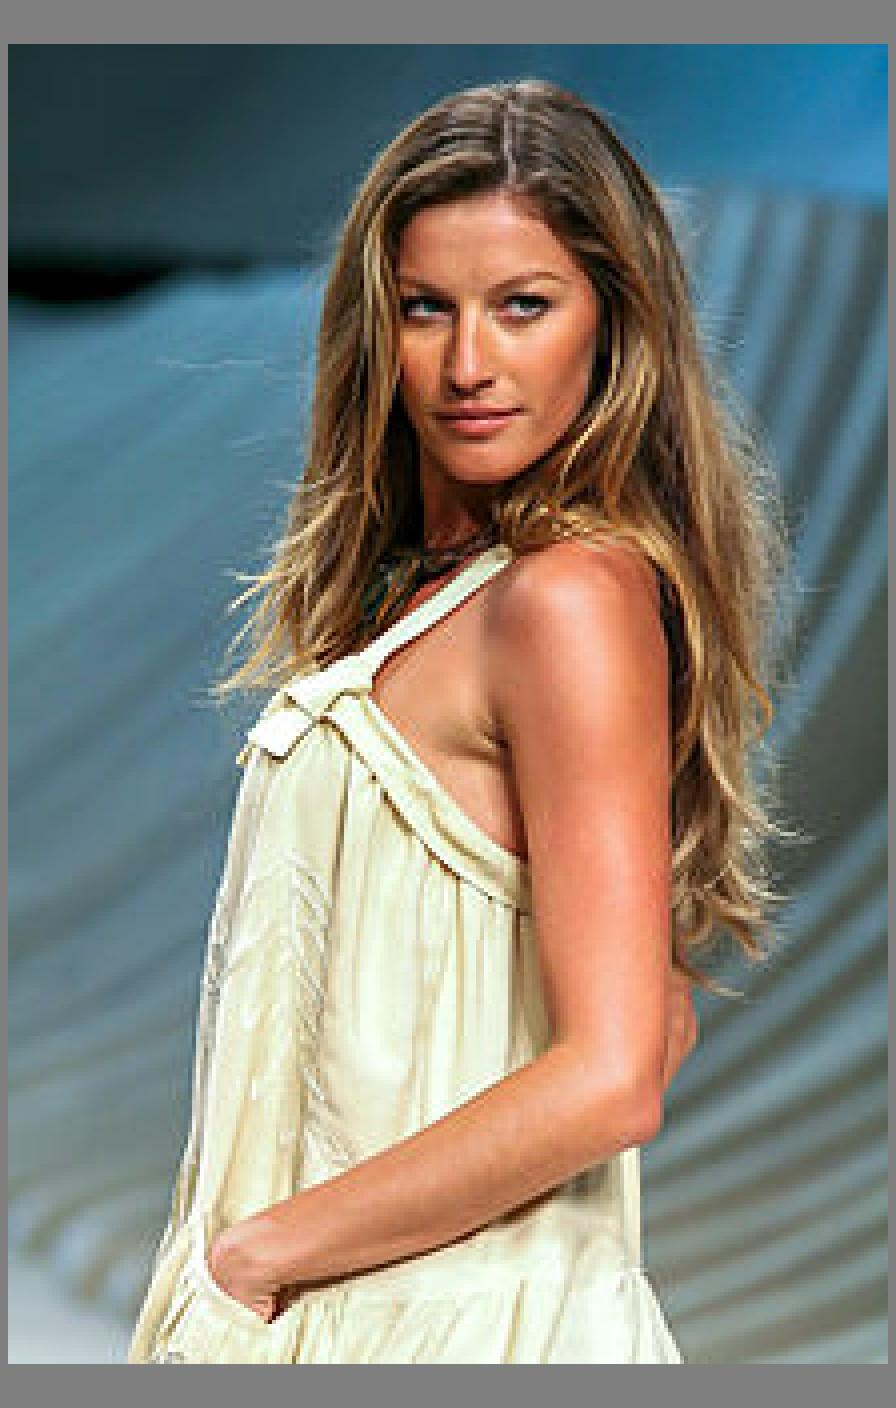
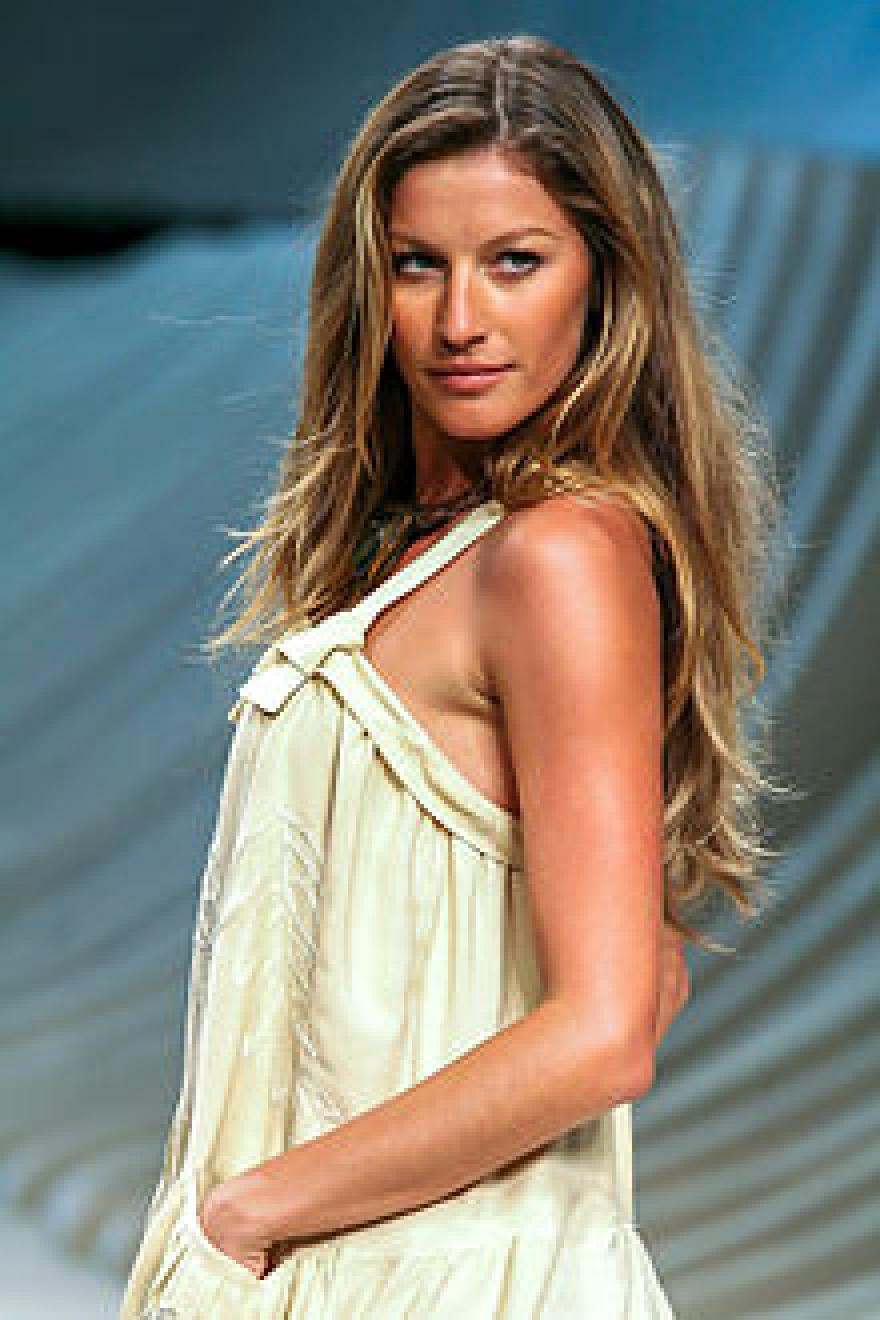
Removed saving grey border in output and upsampled inputs

diff --git a/model.py b/model.py
@@ -180,7 +180,7 @@ class DCGAN(object):
             return False
 
     def test(self,z, config):
-        print('yolo')
+        print('Testing 32x32 sized image')
         batch = [get_image(z, self.image_size, is_crop=self.is_crop)]*64
         batch_small = np.array([doresize(xx, [self.input_size,]*2) for xx in batch]).astype(np.float32)
         output, upsampled_inputs = self.sess.run([self.generated_output, self.up_inputs], feed_dict={self.inputs: batch_small})
@@ -191,33 +191,40 @@ class DCGAN(object):
         save_images([output[0]], [1, 1], os.path.join(config.sample_dir, 'test_generated_output.jpg'))
     
     def variable_size_test(self,z,config):
-        print('yolo')
+        print('Running Variable Sized Testing')
         image=get_image(z, self.image_size, is_crop=self.is_crop)
         
-        gridded,nrows,ncols=make_grid(image)
-        print('nrows, ncols: ',nrows, ncols)
-        output_list=list()
-        upsampled_inputs_list=list()
+        gridded, nrows, ncols, pad_rows, pad_cols=make_grid(image)    # This line breaks the image into subsections of 32x32, appending rows and columns wherever necessary. The list containing the sub images is gridded
+        print('Number of rows, columns in the image grid: ({}, {})'.format(nrows, ncols))
+        output_list=list()  #output_list is a list containing the partial outputs, i.e., the output of passing each element of the image grid through the network
+        if config.debug:
+            upsampled_inputs_list=list()
+
         for i in range(0,nrows*ncols):
             batch=np.array([gridded[i]]*64).astype(np.float32)
             batch_small = np.array([doresize(xx, [self.input_size,]*2) for xx in batch]).astype(np.float32)
             output, upsampled_inputs = self.sess.run([self.generated_output, self.up_inputs], feed_dict={self.inputs: batch_small})
             output_list.append(output[0])
-            upsampled_inputs_list.append(upsampled_inputs[0])
-            print('Done','Iteration number: ',i)
-            save_images([batch[0]], [1, 1], os.path.join(config.sample_dir, 'test_input_{:}.jpg'.format(i)))
-            save_images([upsampled_inputs[0]], [1, 1], os.path.join(config.sample_dir, 'test_input_upsampled_{:}.jpg'.format(i)))
             save_images([output[0]], [1, 1], os.path.join(config.sample_dir, 'test_generated_output_{:}.jpg'.format(i)))
-        #output_list=np.array(output_list).astype(np.float32)
-        joined_outputs=join_grid(output_list,nrows,ncols)
-        #joined_outputs=filters.gaussian_filter(joined_outputs,sigma=(1,1,0))
+            print('Processed 32x32 sub image number: ',i)
+            
+            if config.debug:
+                save_images([batch[0]], [1, 1], os.path.join(config.sample_dir, 'test_input_{:}.jpg'.format(i)))
+                upsampled_inputs_list.append(upsampled_inputs[0]) # Uncomment this line if you want to save the upsampled inputs too
+                save_images([upsampled_inputs[0]], [1, 1], os.path.join(config.sample_dir, 'test_input_upsampled_{:}.jpg'.format(i)))
 
-        joined_upsampled_inputs=join_grid(upsampled_inputs_list,nrows,ncols)
-        save_images([joined_outputs], [1, 1], os.path.join(config.sample_dir, 'joined_outputs.jpg'))
-        save_images([joined_upsampled_inputs], [1, 1], os.path.join(config.sample_dir, 'joined_upsampled_inputs.jpg'))
+        joined_outputs=join_grid(output_list, nrows, ncols, pad_rows, pad_cols)
+        joined_outputs=filters.gaussian_filter(joined_outputs,sigma=(1,1,0))
         
-        joined_output_resize=imresize(joined_outputs,(128,128,3))
-        joined_upsampled_inputs_resize=imresize(joined_upsampled_inputs,(128,128,3))
-        
+
+
+
+        save_images([joined_outputs], [1, 1], os.path.join(config.sample_dir, 'joined_outputs_full_resolution.jpg'))
+        joined_output_resize=imresize(joined_outputs,image.shape)
         save_images([joined_output_resize], [1, 1], os.path.join(config.sample_dir, 'joined_output_resized.jpg'))
-        save_images([joined_upsampled_inputs_resize], [1, 1], os.path.join(config.sample_dir, 'joined_upsampled_inputs_resized.jpg'))
+
+        if config.debug:
+            joined_upsampled_inputs=join_grid(upsampled_inputs_list,nrows,ncols, pad_rows, pad_cols)
+            save_images([joined_upsampled_inputs], [1, 1], os.path.join(config.sample_dir, 'joined_upsampled_inputs.jpg'))
+            joined_upsampled_inputs_resize=imresize(joined_upsampled_inputs,image.shape)
+            save_images([joined_upsampled_inputs_resize], [1, 1], os.path.join(config.sample_dir, 'joined_upsampled_inputs_resized.jpg'))

diff --git a/utils.py b/utils.py
@@ -90,7 +90,7 @@ def make_grid(img):
     #Breaking into 32*32 images.
     grids=list()
     h,w = img.shape[:2]
-    print('Image shape: ',h,w)
+    print('Original Image shape: ',h,w,'. Breaking it into 32x32 images and storing the list')
     #nrows = h//32
     #ncols = w//32
 
@@ -109,17 +109,19 @@ def make_grid(img):
         for j in range(0,ncols):
             grids.append(neo_image[32*i:32*(i+1),32*j:32*(j+1),:])
     
-    print('Shape of single grid: ',grids[0].shape)
-    return grids,nrows,ncols
+    print('Shape of an element image in the list: ',grids[0].shape)
+    return grids, nrows, ncols, padh, padw
 
-def join_grid(output_list,nrows,ncols):
+def join_grid(output_list, nrows, ncols, pad_rows, pad_cols):
     # h,w=output_list[0].shape[:2]
-    large_ass_output=np.zeros((128*nrows,128*ncols,3))
+    joined_output=np.zeros((128*nrows,128*ncols,3))
     for i in range(0,nrows):
         for j in range(0,ncols):
-            large_ass_output[128*i:128*(i+1),128*j:128*(j+1),:]=output_list[i*ncols+j]
+            joined_output[128*i:128*(i+1),128*j:128*(j+1),:]=output_list[i*ncols+j]
 
-    return large_ass_output
+    joined_output = joined_output[2*pad_rows:-2*pad_rows, 2*pad_cols:-2*pad_cols]
+
+    return joined_output
 
 def doresize(x, shape):
     x = np.copy((x+1.)*127.5).astype("uint8")

diff --git a/main.py b/main.py
@@ -20,6 +20,7 @@ flags.DEFINE_string("log_dir", "logs", "Directory name to save the training logs
 flags.DEFINE_string("test_image", "test.jpg", "Location to image for testing [test.jpg]")
 flags.DEFINE_boolean("is_train", False, "True for training, False for testing [False]")
 flags.DEFINE_boolean("is_crop", False, "True for training, False for testing [False]")
+flags.DEFINE_boolean("debug", False, "Enable if you would like to see all progress of all intermediate steps")
 FLAGS = flags.FLAGS
 
 def main(_):

diff --git a/README.md b/README.md
@@ -37,8 +37,8 @@ Super resolution of an image using Efficient subpixel Phase Shift CNNs.
 			<td>Input</td>
 		</tr>
 		<tr>
-			<td><img src="results/joined_outputs.jpg" alt="Output" style="width: 400px;"/></td>
 			<td><img src="results/joined_upsampled_inputs.jpg" alt="Input" style="width: 400px;"/></td>
+			<td><img src="results/joined_outputs_full_resolution.jpg" alt="Output" style="width: 400px;"/></td>
 		</tr>
 	</tbody>
 </table>
@@ -49,7 +49,7 @@ Super resolution of an image using Efficient subpixel Phase Shift CNNs.
 * Python 3.5+
 * Scipy, Numpy
 
-## Execution
+## Usage
 1. Training: (assuming the `celebA` dataset (split into `train`, `test` and `valid`) are located in the folder `data` in the repository folder)
     ```bash
     python main.py --dataset celebA --is_train True --is_crop True
@@ -59,6 +59,12 @@ Super resolution of an image using Efficient subpixel Phase Shift CNNs.
     python main.py --test_image abc.png
     ```
 
+## To-Do
+* Rather than non overlapping sections of 32x32, use overlapping sections and take the center part alone
+* Stop storing the partial outputs in the RAM - limits the size of the picture that can be tested upon
+* Train model for different resolutions
+* Add ability to do it to a subsection of the image that the user defines
+
 ## References
 
 1.  [Real-Time Single Image and Video Super-Resolution Using an Efficient Sub-Pixel Convolutional Neural Network](https://arxiv.org/abs/1609.05158). By Shi et. al.  
@@ -66,7 +72,3 @@ Super resolution of an image using Efficient subpixel Phase Shift CNNs.
 3. [Phase Shift implementation](https://github.com/Tetrachrome/subpixel)
 4. [Visualizing and Understanding Convolutional Networks](https://arxiv.org/abs/1311.2901). By Zeiler and Fergus.  
 5. [A guide to convolution arithmetic for deep learning](https://arxiv.org/abs/1603.07285). By Dumoulin and Visin.
-
-## Further reading
-Alex J. Champandard made a really interesting analysis of this topic in this [thread](https://twitter.com/alexjc/status/782499923753304064).   
-For discussions about differences between phase shift and straight up `resize` please see the companion [notebook](https://github.com/Tetrachrome/subpixel/blob/master/ponynet.ipynb) and this [thread](https://twitter.com/soumithchintala/status/782603117300965378).
